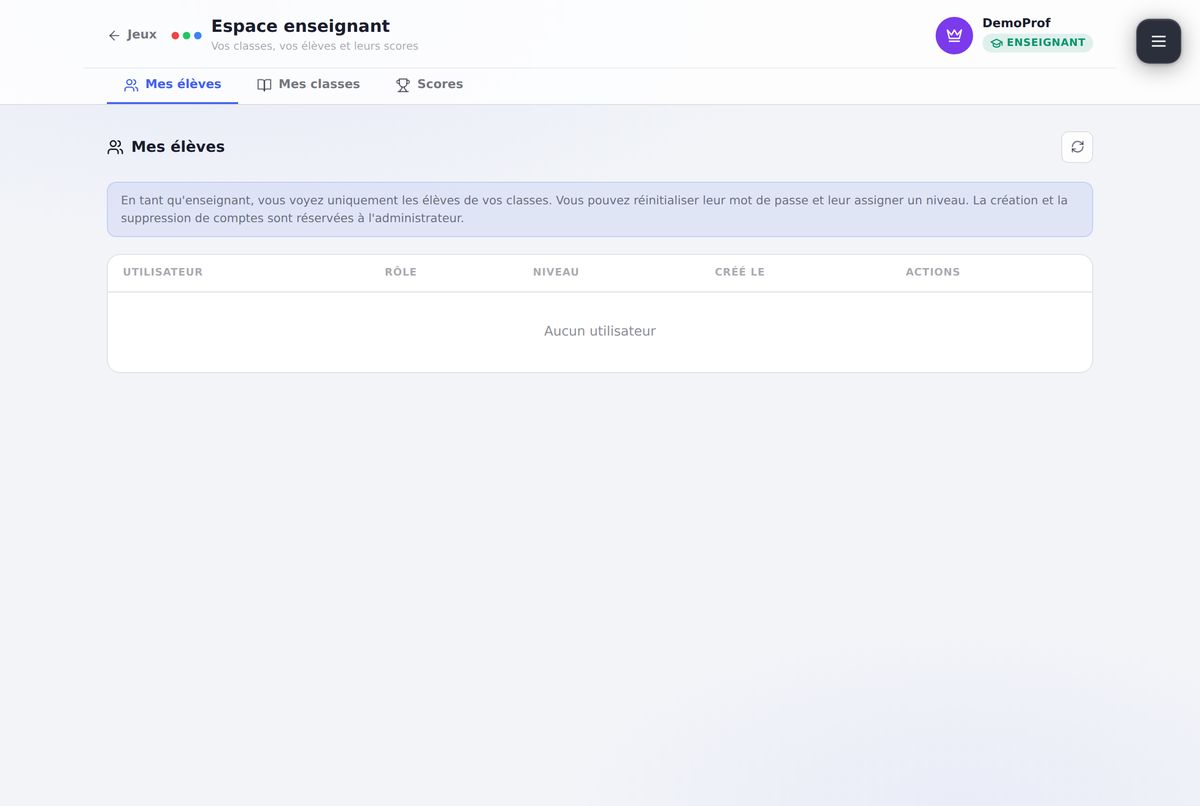
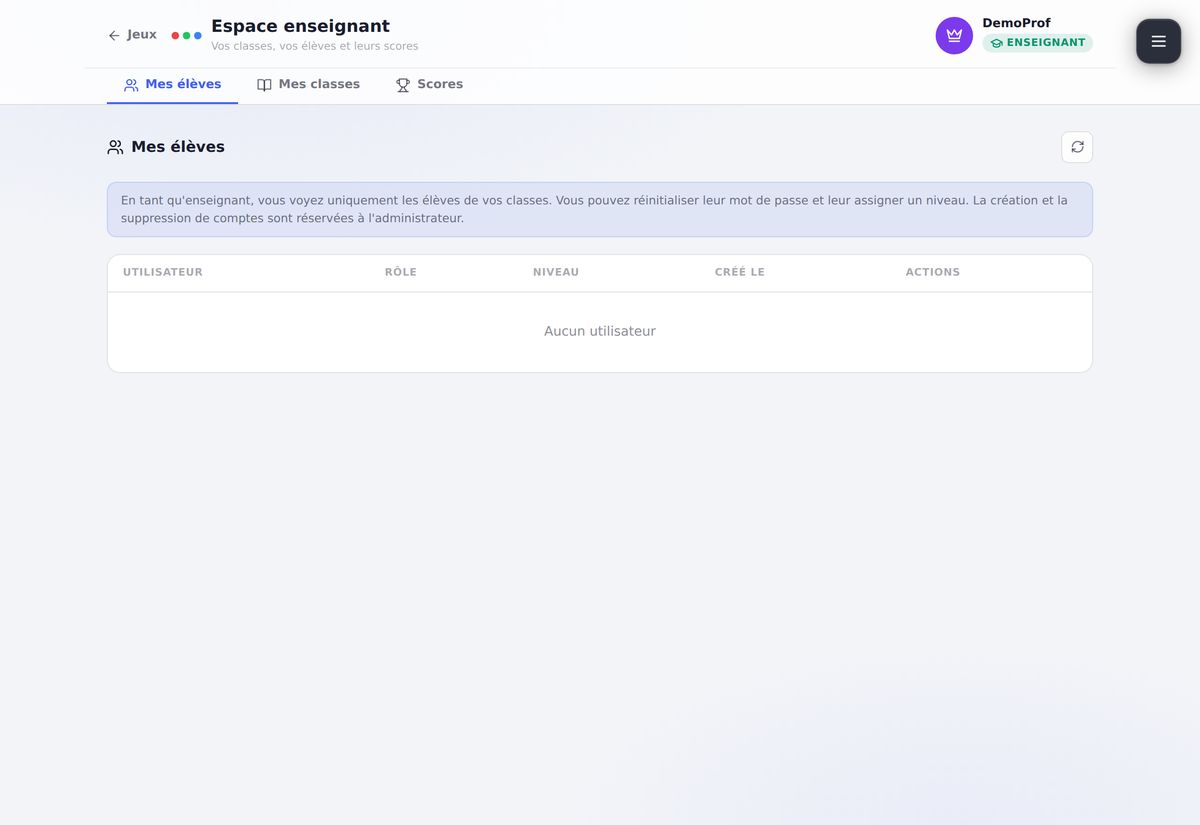
docs(presentation): slides Three.js (code), Configuration, parcours apprenant, editeur+IA, aide, notes reseau Windows (CORS/ports) + CORS dans les difficultes
Claude-Session: https://claude.ai/code/session_01UFDsjNL7r7d5wC2PNu6MGo

diff --git a/scripts/make_final.py b/scripts/make_final.py
@@ -18,6 +18,7 @@ def photo(n): return b64f(f"{PHOTO}/{n}")
 IMG={
  "home":shot("home"),"jeux":shot("jeux"),"gestion":shot("gestion"),"chroma":shot("chromaticite"),
  "aide":shot("aide"),"login":shot("login"),"cs":shot("colorspeed_run"),"p4":shot("puissance4"),"multi":shot("multi"),
+ "config":shot("configuration"),"register":shot("register"),"editeur":shot("editeur"),"mesure":shot("mesure"),
  "uc":uml("UseCases"),"cls":uml("Classes"),"comp":uml("Composants"),"dep":uml("Deploiement"),
  "erd":uml("ERD"),"sauth":uml("Seq_Auth"),"sjeu":uml("Seq_Jeu"),"scs":uml("Seq_CS160"),
  "smp":uml("Seq_MP"),"ej":uml("Etats_Jeu"),"ecs":uml("Etats_CS160"),"remap":uml("Activite_Remap"),
@@ -450,6 +451,13 @@ S.append(slide(head("Docker · Raspberry Pi 5 · diagramme de déploiement","Ré
    <li class="sub">SQLite en volume · git pull puis docker compose up</li></ul></div>
    <div class="media"><img class="diagram" src="{IMG['dep']}"></div></div>'''))
 
+# 12b CONFIGURATION
+S.append(media_slide("Ma partie · configuration","Adresses des API et canaux LED",
+ '''<ul><li>Réglage des <b>URL d'API à chaud</b> (Supervision, CS-160) sans redémarrer le serveur</li>
+   <li>Stockées en base ; repli sur les <b>variables d'environnement</b></li>
+   <li>Bouton <b>Tester (/health)</b> pour vérifier la liaison matériel</li>
+   <li>Banc de test des <b>32 canaux LED</b> (0-255) par dalle, debounce 200 ms</li></ul>''',IMG['config'],"wrench",ratio="0 0 42%"))
+
 # 13 INTERFACE
 S.append(media_slide("Ma partie · interface","Interface et design system",
  '''<ul><li>Design system « <b>verre dépoli</b> » : variables CSS partagées</li>
@@ -457,6 +465,31 @@ S.append(media_slide("Ma partie · interface","Interface et design system",
    <li><b>Menu dynamique</b> selon le rôle</li>
    <li><b>Vue 3D</b> (Three.js : WebGLRenderer, Room3D, 2 cellules)</li>
    <li class="sub">forceContextLoss au démontage · pause via Page Visibility API</li></ul>''',IMG['jeux'],"layout-dashboard",ratio="0 0 42%"))
+
+# 13b THREE.JS (code)
+S.append(code_slide("Extrait de code · 3D temps réel","Vue 3D de la salle (Three.js)","boxes",
+ '''<ul><li><b>Scène + caméra + WebGLRenderer</b> montés dans la page</li>
+   <li>Chaque <b>dalle</b> = un <code>Mesh</code> ; sa couleur suit l'état du jeu en direct</li>
+   <li><b>Boucle de rendu</b> via <code>requestAnimationFrame</code></li>
+   <li>Au démontage : <b>forceContextLoss</b> → évite la fuite de contexte WebGL</li></ul>''',
+ "app/app/_components/Room3D.tsx",
+ '''<span class="cm">// Scène, caméra, renderer WebGL</span>
+<span class="kw">const</span> scene = <span class="kw">new</span> THREE.<span class="fn">Scene</span>();
+<span class="kw">const</span> camera = <span class="kw">new</span> THREE.<span class="fn">PerspectiveCamera</span>(CAM_FOV, W/H, <span class="nb">0.05</span>, <span class="nb">80</span>);
+<span class="kw">const</span> renderer = <span class="kw">new</span> THREE.<span class="fn">WebGLRenderer</span>({ antialias: <span class="kw">true</span> });
+renderer.<span class="fn">setSize</span>(W, H);
+mount.<span class="fn">appendChild</span>(renderer.domElement);
+
+<span class="cm">// une dalle = un Mesh ajouté à la scène</span>
+<span class="kw">const</span> plate = <span class="kw">new</span> THREE.<span class="fn">Mesh</span>(geometry, material);
+scene.<span class="fn">add</span>(plate);
+
+<span class="cm">// boucle de rendu</span>
+<span class="kw">function</span> <span class="fn">loop</span>() { renderer.<span class="fn">render</span>(scene, camera); raf = <span class="fn">requestAnimationFrame</span>(loop); }
+<span class="fn">loop</span>();
+
+<span class="kw">return</span> () =&gt; { <span class="fn">cancelAnimationFrame</span>(raf); renderer.<span class="fn">forceContextLoss</span>(); };''',
+ "app/app/_components/Room3D.tsx","L255-L539"))
 
 # 14 BDD
 S.append(slide(head("Ma partie · données · modèle relationnel","Base de données SQLite","database",me=True)+
@@ -554,11 +587,18 @@ S.append(diagram("Séquence · connexion","Authentification (PBKDF2 + cookie)",I
    "Renvoi d'un cookie <b>HttpOnly + SameSite</b> (30 j glissants)")))
 
 # 17 GESTION
-S.append(media_slide("Ma partie · gestion","Comptes, classes, scores et tableau de bord",
- '''<ul><li><b>Classes</b> : code 6 caractères (sans 0/O, 1/I)</li>
-   <li><b>Niveaux</b> assignés par l'enseignant</li>
-   <li><b>Scores</b> : JOIN scores × users ; <code>all=1</code> réservé (HTTP 403)</li>
-   <li class="sub">Tableau de bord /gestion · export CSV (Blob, BOM UTF-8)</li></ul>''',IMG['gestion'],"users",ratio="0 0 44%"))
+S.append(media_slide("Ma partie · gestion","Tableau de bord enseignant",
+ '''<ul><li><b>Classes</b> : code de 6 caractères (ex. <code>CS5VHX</code>, sans 0/O, 1/I) + <b>QR code</b></li>
+   <li><b>Suivi des élèves</b> : niveau et scores par apprenant</li>
+   <li><b>Gestion des utilisateurs</b> : rôles, réinitialisation, suppression (admin)</li>
+   <li class="sub">Export <b>CSV</b> (Blob, BOM UTF-8) · scores en JOIN scores × users</li></ul>''',IMG['gestion'],"users",ratio="0 0 44%"))
+
+# 17b PARCOURS APPRENANT (création de compte + rejoindre une classe)
+S.append(media_slide("Ma partie · parcours apprenant","Création de compte et adhésion à une classe",
+ '''<ul><li>Inscription guidée en <b>3 étapes</b> : pseudo + mot de passe, avatar, classe</li>
+   <li><b>Rejoindre une classe</b> en saisissant son <b>code</b> (fourni par l'enseignant)</li>
+   <li>Création <b>atomique</b> (compte + adhésion) puis <b>connexion automatique</b></li>
+   <li class="sub">RGPD : un simple <b>pseudo</b> suffit, aucune donnée nominative</li></ul>''',IMG['register'],"users",ratio="0 0 46%"))
 
 # 18 JEUX SOLO
 S.append(media_slide("Ma partie · jeux solo","Les jeux et le pilotage des dalles",
@@ -619,6 +659,13 @@ S.append(diagram("Séquence · multijoueur","État partagé et interrogation pé
    "L'état est <b>persisté en base</b> (state_json)",
    "Chaque client interroge <b>/state</b> en <b>polling</b> → écrans synchronisés")))
 
+# 23c EDITEUR + IA GENERATIVE
+S.append(media_slide("Exploration · éditeur &amp; génération par IA","Créer un jeu sans coder",
+ '''<ul><li>Éditeur <b>no-code</b> (partie E3) : graphe de <b>nœuds</b> + aperçu 3D live</li>
+   <li>Mon exploration : <b>« Créer avec l'IA »</b> génère un jeu complet depuis une phrase</li>
+   <li>Route <code>/api/ai/generate-game</code> → <b>Ollama</b> (local) ou Gemini (cloud, optionnel)</li>
+   <li class="sub">Garde-fous : reste <b>éducatif</b> ; intègre les nœuds CS-160 et dalles</li></ul>''',IMG['editeur'],"sparkles",ratio="0 0 40%"))
+
 # 24 MESURE
 S.append(media_slide("Ma partie · physique de la lumière","Mesure colorimétrique et chromaticité",
  '''<ul><li>Colorimètre <b>Konica Minolta CS-160</b> via un <b>pont .NET</b></li>
@@ -651,6 +698,12 @@ S.append(diagram("Diagramme d'activité","Remappage des canaux LED",IMG['remap']
    "Application des <b>profils</b> (longueur d'onde réelle)",
    "Envoi de la trame au matériel (proxy supervision)")))
 
+# 27b AIDE
+S.append(media_slide("Ma partie · aide intégrée","Documentation pour l'apprenant",
+ '''<ul><li>Page <b>/aide</b> embarquée : comment jouer, mesurer, lire le diagramme CIE</li>
+   <li>Accessible <b>hors-ligne</b>, directement dans l'app</li>
+   <li>Complète le <b>manuel d'installation</b> (README) et les 15 diagrammes UML</li></ul>''',IMG['aide'],"file-text",ratio="0 0 46%"))
+
 # 28 DOC
 S.append(media_slide("Ma partie · qualité","Documentation et robustesse",
  '''<ul><li>Notice apprenant intégrée (page /aide)</li>
@@ -662,11 +715,37 @@ S.append(media_slide("Ma partie · qualité","Documentation et robustesse",
 S.append(slide(head("Démarche d'ingénieur","Difficultés rencontrées et solutions","flask-conical",me=True)+
  '<div class="body" style="flex-direction:column;justify-content:center">'+
  ''.join(f'<div class="fix"><div class="pb">{p}</div><div class="ar">'+ic("share-2")+f'</div><div class="so">'+ic("circle-check")+f'<span>{s}</span></div></div>' for p,s in [
+   ("CORS &amp; pare-feu bloquant l'API Supervision","En-têtes CORS + ouverture du port Windows + portproxy (slide suivante)"),
    ("Latence des plaques (32 canaux)","Envoi parallèle (Promise.all) + timeout (AbortController)"),
    ("Couleur écran différente des dalles","Rendu unifié + profils calés sur les longueurs d'onde"),
    ("Accès concurrents (SQLITE_BUSY)","Mode WAL + busy_timeout + connexion singleton"),
    ("Multijoueur temps réel sur Pi","État en base + polling /state (vs WebSockets)"),
  ])+'</div>'))
+
+# 29b NOTES RESEAU WINDOWS (CORS / ports)
+_winpre='''<span class="cm"># 1) Autoriser le port 18080 dans le pare-feu</span>
+<span class="fn">New-NetFirewallRule</span> -DisplayName <span class="st">"ColorRoom-Supervision"</span> `
+  -Direction Inbound -Protocol TCP -LocalPort <span class="nb">18080</span> -Action Allow
+
+<span class="cm"># 2) Rediriger le port 18080 (réseau) vers 8080 (local)</span>
+netsh interface portproxy <span class="fn">add</span> v4tov4 `
+  listenport=<span class="nb">18080</span> listenaddress=<span class="nb">0.0.0.0</span> `
+  connectport=<span class="nb">8080</span> connectaddress=<span class="nb">127.0.0.1</span>
+
+<span class="cm"># L'API écoute en local sur 8080 ; la</span>
+<span class="cm"># redirection l'expose sur 18080.</span>'''
+_winbull='''<ul><li>Le navigateur bloquait l'API Supervision (<b>CORS</b> + pare-feu)</li>
+   <li>L'API écoute en <b>local sur 8080</b> ; on l'expose sur le réseau via <b>18080</b></li>
+   <li>À lancer dans <b>PowerShell (administrateur)</b> sur le poste hôte de l'API</li>
+   <li class="sub">Combiné aux <b>en-têtes CORS</b> renvoyés par l'API</li></ul>'''
+_winsrc=f'<div class="src">{ic("wrench")}<span><b>Notes d\'installation · réseau Windows</b><br>PowerShell (administrateur) · poste hôte de la Supervision</span></div>'
+_wincard=(f'<div class="code"><div class="codebar">'
+          f'<span class="dot" style="background:#ff5f57"></span><span class="dot" style="background:#febc2e"></span>'
+          f'<span class="dot" style="background:#28c840"></span><span class="file">PowerShell · administrateur</span></div>'
+          f'<pre>{_winpre}</pre></div>')
+S.append(slide(head("Notes réseau · ouvrir les ports (Windows)","Rendre l'API Supervision joignable","share-2",me=True)+
+ f'<div class="body"><div class="col" style="flex:0 0 36%;min-width:0;display:flex;flex-direction:column;justify-content:center">{_winbull}{_winsrc}</div>'
+ f'<div class="col" style="flex:1;min-width:0;display:flex;align-items:center">{_wincard}</div></div>'))
 
 # 30 BILAN
 S.append(slide(head("Conclusion","Bilan et perspectives","chart-column")+